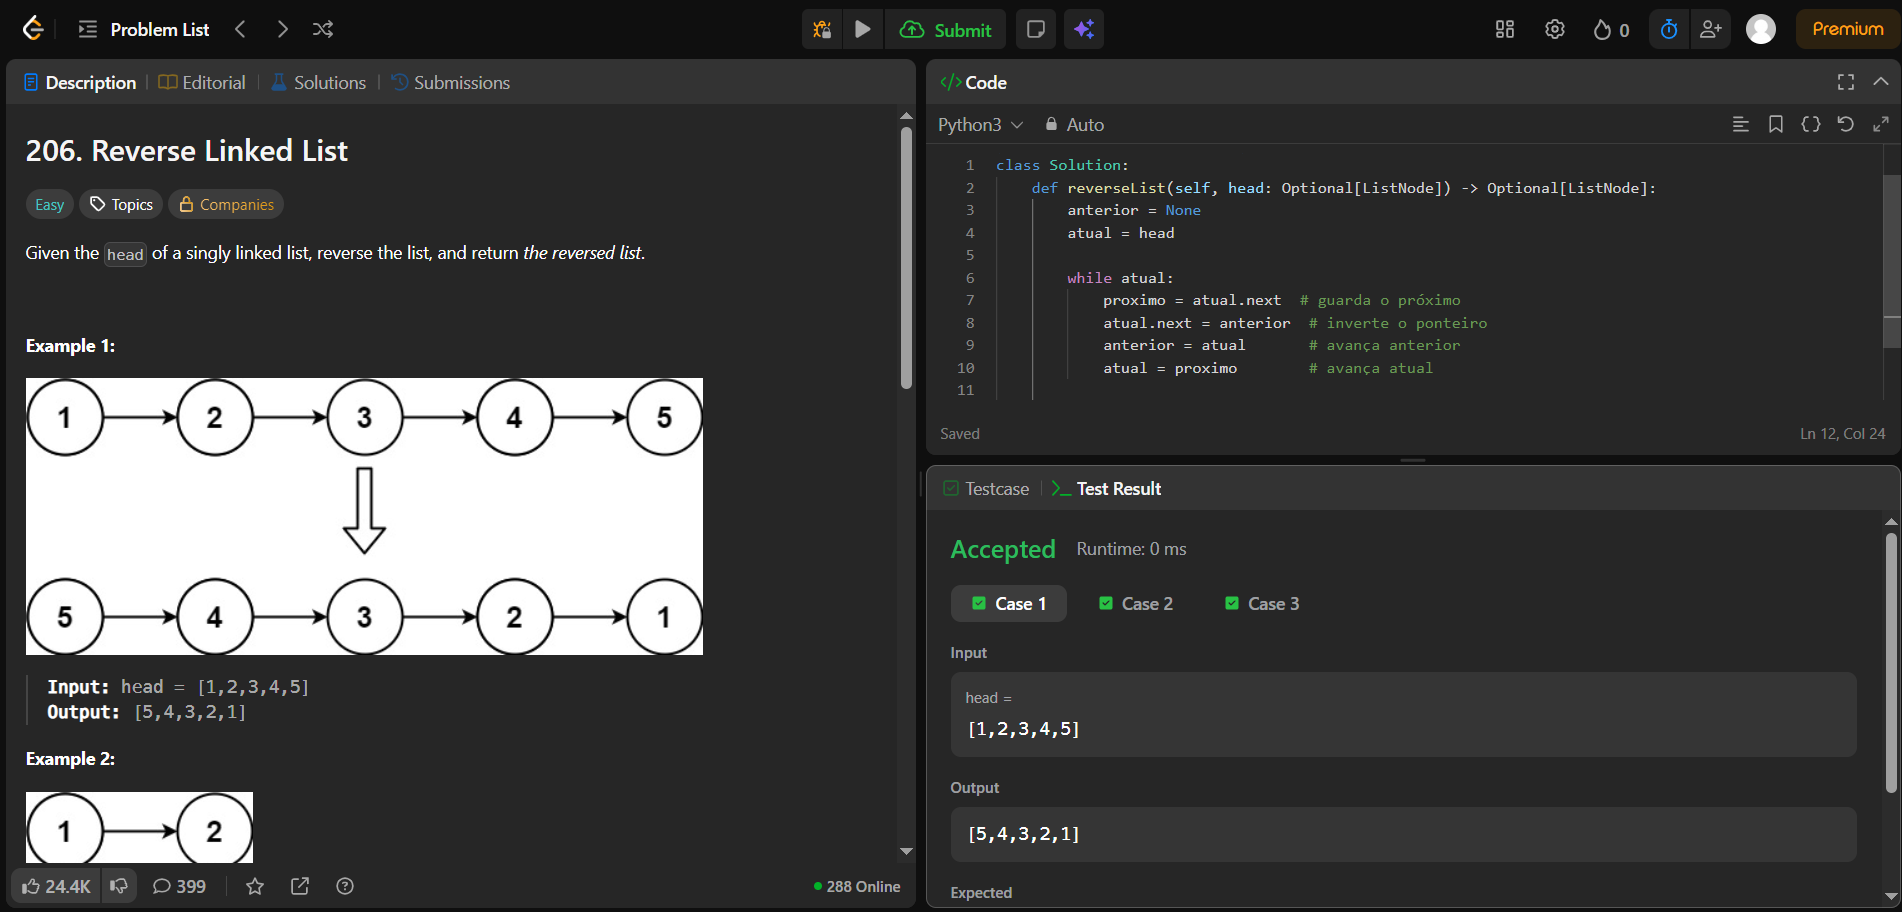
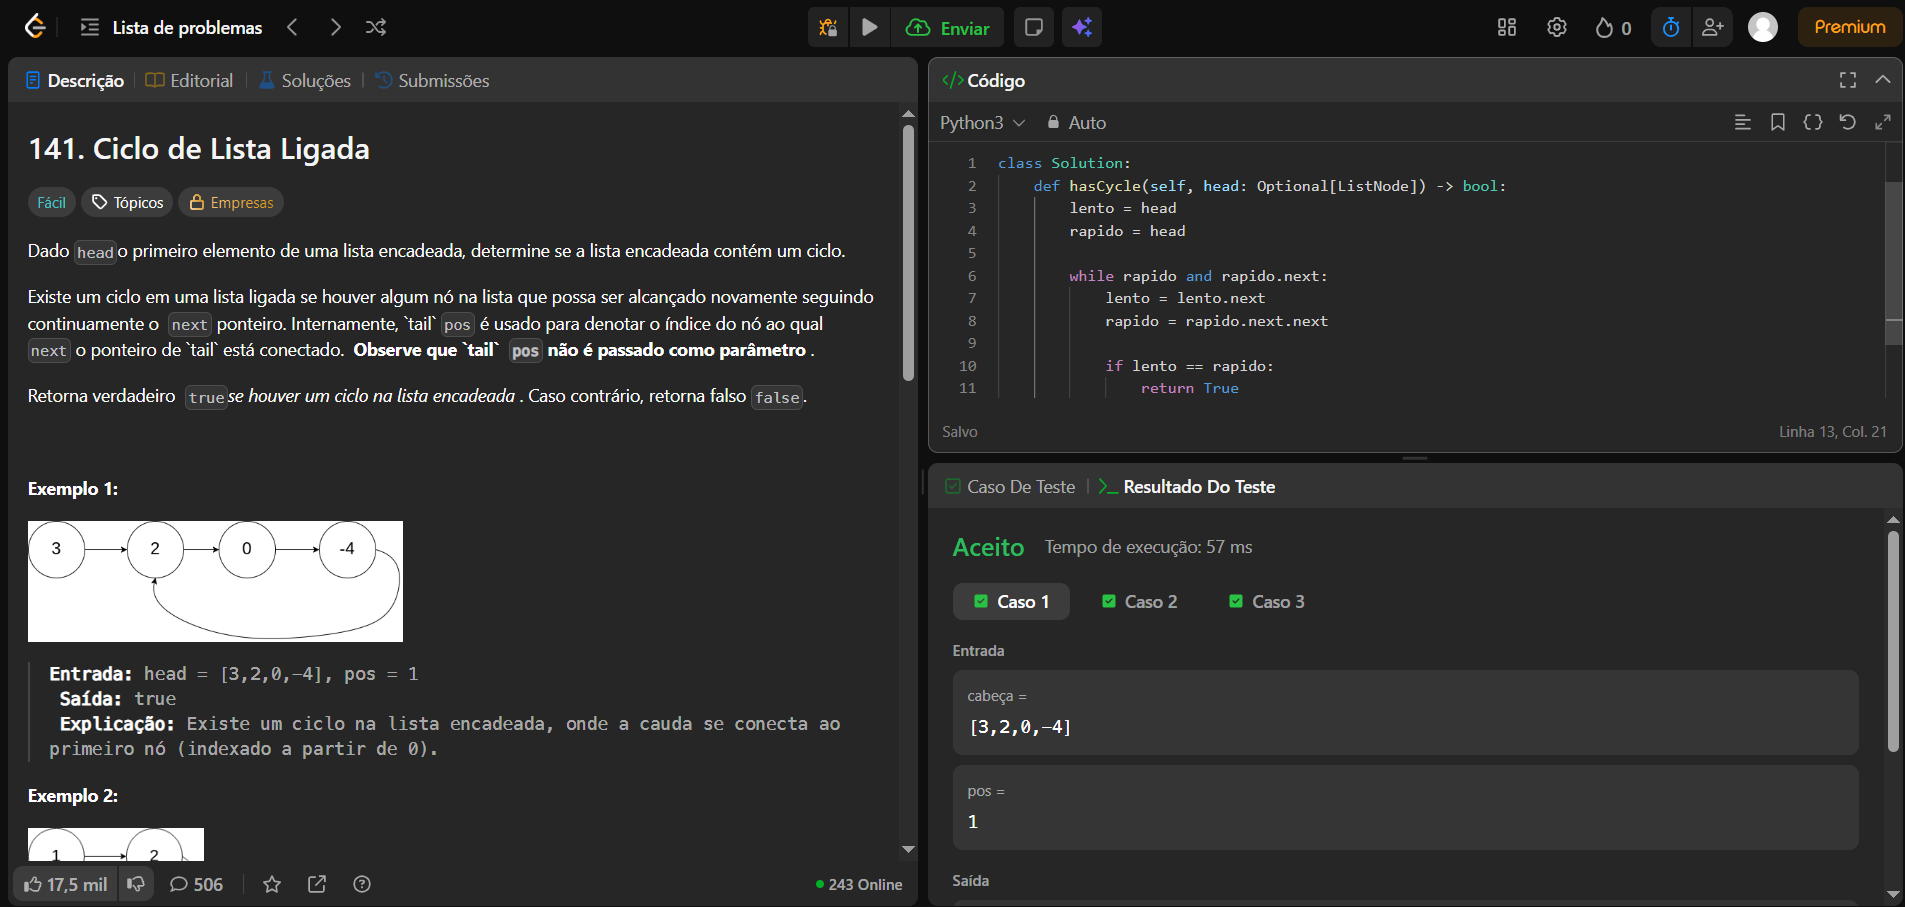
correções

diff --git a/mariele/Linked-List-Cycle.py b/mariele/Linked-List-Cycle.py
@@ -1,0 +1,33 @@
+#Problema de Listas
+
+# Sem IA
+from typing import Optional
+
+class Solution:
+    def hasCycle(self, head: Optional[ListNode]) -> bool:
+        visitados = []
+        
+        atual = head
+        while atual is not None:
+            if atual in visitados:
+                return True
+            
+            visitados.append(atual)
+            atual = atual.next
+        
+        return False
+
+# Com IA
+class Solution:
+    def hasCycle(self, head: Optional[ListNode]) -> bool:
+        lento = head
+        rapido = head
+        
+        while rapido and rapido.next:
+            lento = lento.next
+            rapido = rapido.next.next
+            
+            if lento == rapido:
+                return True
+        
+        return False

diff --git a/mariele/README.MD b/mariele/README.MD
@@ -60,10 +60,10 @@ Esse problema utiliza arrays para encontrar a sublista contínua com maior soma.
 ## 4) Problema com Lista Encadeada 1
 
 **Nome do problema:**
-Reverse Linked List
+Linked List Cycle
 
 **Link:**
-https://leetcode.com/problems/reverse-linked-list/
+https://leetcode.com/problems/linked-list-cycle/
 
 **Plataforma:**
 LeetCode
@@ -72,6 +72,6 @@ LeetCode
 Lista Encadeada
 
 **Justificativa:**
-Esse problema explora diretamente a manipulação de ponteiros em uma lista encadeada. A estrutura é essencial porque o desafio consiste em inverter os nós sem usar memória extra significativa, apenas reorganizando as referências entre eles.
+Esse problema envolve verificar se uma lista encadeada possui um ciclo, ou seja, se algum nó aponta para um nó anterior na estrutura. A lista encadeada é essencial aqui, pois o desafio depende da navegação entre os nós por meio de ponteiros. A solução mais eficiente utiliza dois ponteiros (lento e rápido), explorando a estrutura dinâmica da lista sem necessidade de memória adicional, com complexidade O(n).
 
 